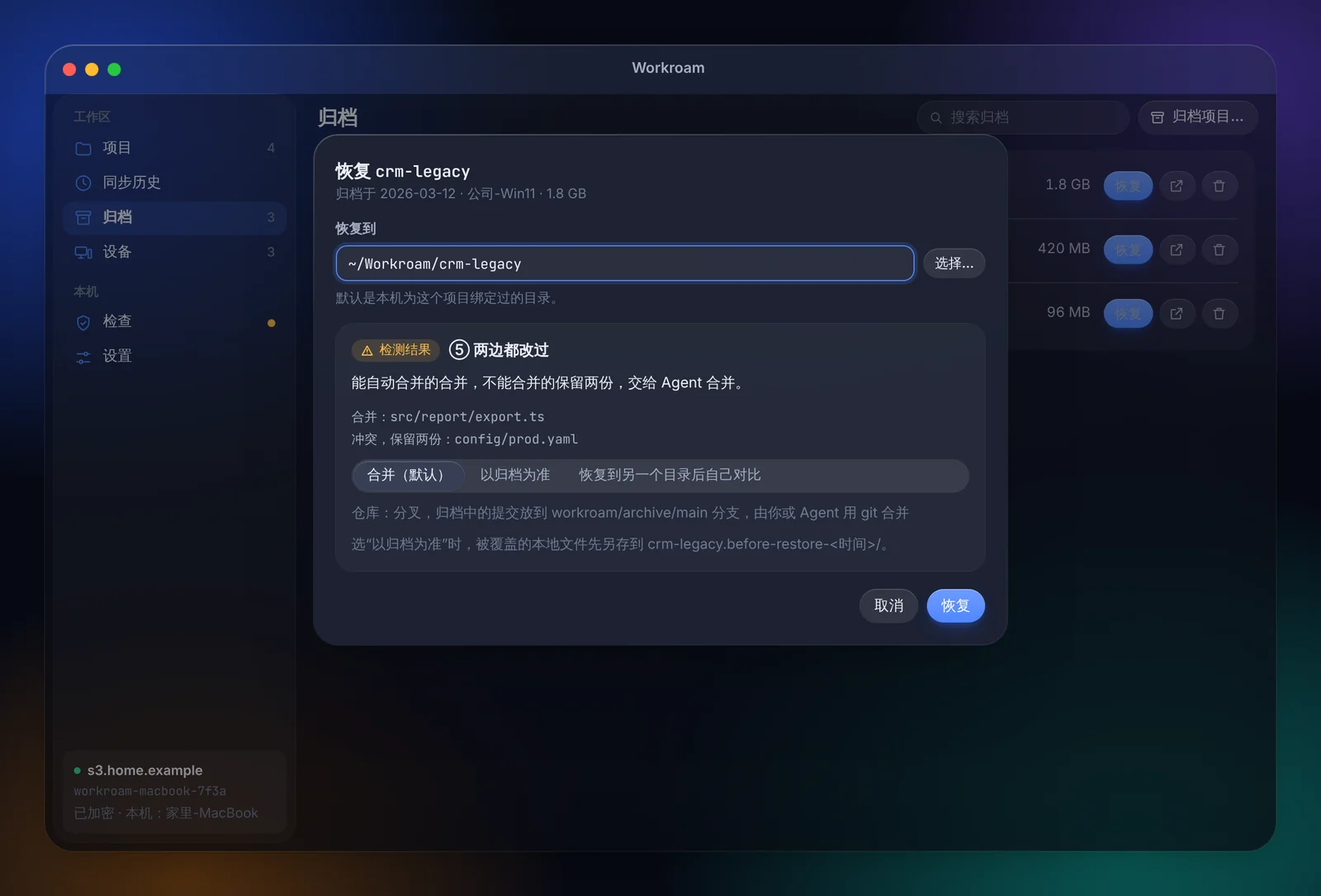
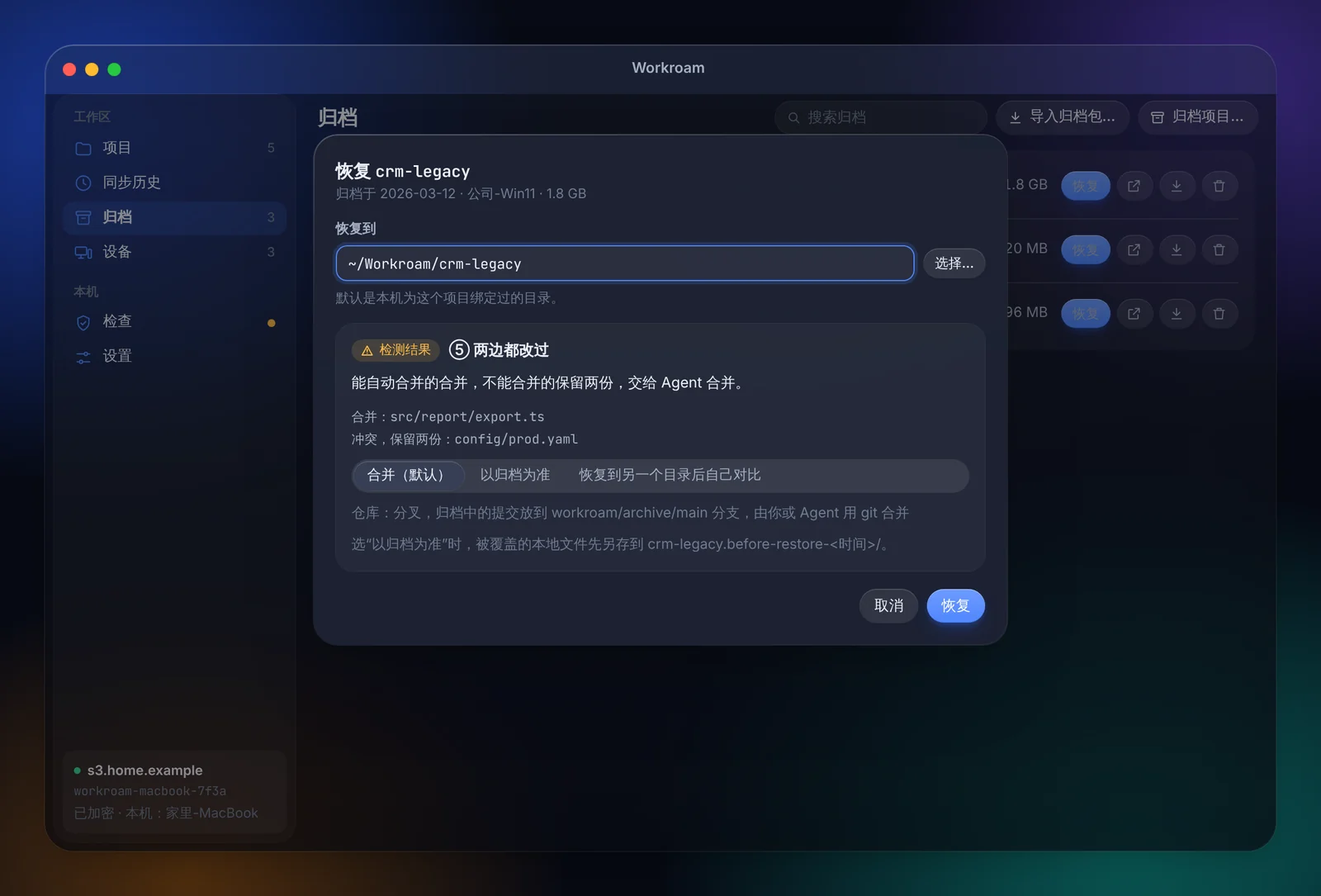
docs(prototype): add desktop entry points for CLI parity
- Approval card "查看详情" opens a details window with changed files,
  commits and 拒绝 / 稍后 / 同意
- Tray: pending approval count on the icon and menu; pause toggles to
  "恢复自动同步"
- Projects: pending project can change its local folder; per-project
  auto-sync tier and agent-confirm override
- Settings: new 本机 / 存储 / 加密 groups; 异地备份 shows last result,
  back up now and remove
- Doctor: "校验数据完整性…"; Archive: search, export / import archive pack
- Join wizard: rejoin as the original device after off-site restore
- Fix settings rows overflowing at phone width; refresh README screenshots

Claude-Session: https://claude.ai/code/session_01FP2eoDg5LfRuRmSZgRWu3e

diff --git a/docs/prototype/index.html b/docs/prototype/index.html
@@ -408,13 +408,13 @@ main{max-width:1100px;margin:0 auto}
 .devrow .nm{font-weight:600;display:flex;gap:8px;align-items:center}
 .devrow .sm{font-size:12px;color:var(--fg2);display:flex;flex-wrap:wrap;gap:4px 10px;margin-top:2px;align-items:center}
 
-.setgrp{display:grid;padding:0 4px;border-radius:var(--r-card);background:var(--pane);box-shadow:0 0 0 .5px var(--ring)}
+.setgrp{display:grid;grid-template-columns:minmax(0,1fr);padding:0 4px;border-radius:var(--r-card);background:var(--pane);box-shadow:0 0 0 .5px var(--ring)}
 .setrow{display:flex;align-items:center;gap:14px;min-height:48px;padding:8px 12px;flex-wrap:wrap;position:relative}
 .setrow + .setrow::before{content:"";position:absolute;top:0;left:12px;right:12px;height:.5px;background:var(--hair2)}
-.setrow .tx{flex:1;min-width:200px}
+.setrow .tx{flex:1;min-width:min(200px,100%)}
 .setrow .tx b{font-weight:550;font-size:13px;display:block}
 .setrow .tx span{font-size:12px;color:var(--fg2)}
-.settings{display:grid;gap:22px;max-width:680px}
+.settings{display:grid;grid-template-columns:minmax(0,1fr);gap:22px;max-width:680px}
 .settings h4{font-size:11px;font-weight:650;letter-spacing:.06em;color:var(--fg3);margin:0 0 6px 12px;text-transform:uppercase}
 input[type=range]{accent-color:var(--accent);width:150px}
 
@@ -501,6 +501,19 @@ input[type=range]{accent-color:var(--accent);width:150px}
 .rs-notes{display:grid;gap:10px;font-size:13px;color:var(--fg2)}
 .rs-notes b{color:var(--fg);font-weight:600}
 @media (max-width:760px){.rspec{grid-template-columns:1fr}.rs-win{grid-template-columns:1fr;height:auto}}
+
+.gwrap{position:fixed;z-index:70;border-radius:0;padding-top:calc(72px + env(safe-area-inset-top,0px))}
+.flrow{display:grid;grid-template-columns:18px minmax(0,1fr) auto;gap:10px;align-items:center;min-height:32px;padding:4px 10px;border-radius:var(--r-row);font-size:12px;position:relative}
+.flrow + .flrow::before{content:"";position:absolute;top:0;left:38px;right:10px;height:.5px;background:var(--hair2)}
+.flrow .k{font-family:var(--mono);font-size:11px;font-weight:700;text-align:center}
+.flrow .k.a{color:var(--ok)} .flrow .k.m{color:var(--warn)} .flrow .k.d{color:var(--bad)}
+.flrow .pth{font-family:var(--mono);overflow:hidden;text-overflow:ellipsis;white-space:nowrap}
+.flrow .sz{font-size:11.5px;color:var(--fg3);font-variant-numeric:tabular-nums}
+.scroll-list{max-height:220px;overflow:auto}
+.menu .mi .badge{margin-left:auto;min-width:18px;height:18px;border-radius:999px;background:var(--bad);color:var(--on-accent);font-size:11px;font-weight:650;display:grid;place-items:center;padding:0 5px;font-variant-numeric:tabular-nums}
+.menu .mi.alert{color:var(--fg);font-weight:550}
+.menubar .wr .cnt{position:absolute;top:-5px;right:-6px;min-width:15px;height:15px;border-radius:999px;background:var(--bad);color:var(--on-accent);font-size:9.5px;font-weight:700;display:grid;place-items:center;padding:0 4px}
+.menu .mi[data-card],.menu .mi#pauseItem{cursor:pointer}
 
 /* ---------- tray ---------- */
 .desk{--r:var(--r-win);min-height:540px;overflow:hidden;padding:0;display:flex;flex-direction:column}
@@ -998,6 +1011,10 @@ input[type=range]{accent-color:var(--accent);width:150px}
             <div><h2>输入加密密码</h2><p class="sub">就是第一台电脑初始化时设置的那个密码。</p></div>
             <div class="field" style="max-width:380px"><label class="lbl" for="jpw">加密密码</label><input class="input" id="jpw" type="password" value="handoff-at-18:40"></div>
             <div class="callout ok"><svg class="ic"><use href="#i-check"/></svg><span>解锁成功：工作区 <code>workroam-macbook-7f3a</code> · 4 个项目 · 2 台设备</span></div>
+            <div class="field"><span class="lbl">这个工作区曾从异地备份恢复 <span class="tag">v0.3</span></span>
+              <label class="choice"><input type="radio" name="asdev" checked><span><span class="t">作为原设备“公司-Win11”重新加入</span><span class="d">沿用原来的设备身份和项目目录，本地已有的文件只补齐差异。</span></span></label>
+              <label class="choice"><input type="radio" name="asdev"><span><span class="t">作为新设备加入</span><span class="d">原设备记录保留，可以稍后在“设备”里移除。</span></span></label>
+            </div>
             <a href="#setup" class="hint" style="color:var(--accent)" onclick="return false">忘记密码？使用恢复密钥</a>
           </div>
 
@@ -1042,7 +1059,7 @@ input[type=range]{accent-color:var(--accent);width:150px}
     <div class="win-body appbody">
       <aside class="side" id="side">
         <div class="grp">工作区</div>
-        <button class="it on" type="button" data-pane="projects"><svg class="ic"><use href="#i-folder"/></svg>项目<span class="cnt">4</span></button>
+        <button class="it on" type="button" data-pane="projects"><svg class="ic"><use href="#i-folder"/></svg>项目<span class="cnt">5</span></button>
         <button class="it" type="button" data-pane="history"><svg class="ic"><use href="#i-clock"/></svg>同步历史</button>
         <button class="it" type="button" data-pane="archive"><svg class="ic"><use href="#i-archive"/></svg>归档<span class="cnt">3</span></button>
         <button class="it" type="button" data-pane="devices"><svg class="ic"><use href="#i-devices"/></svg>设备<span class="cnt">3</span></button>
@@ -1073,7 +1090,7 @@ input[type=range]{accent-color:var(--accent);width:150px}
         </div>
 
         <!-- archive -->
-        <div class="toolbar" data-for="archive" hidden><h2>归档</h2><label class="search"><svg class="ic sm"><use href="#i-search"/></svg><input class="input" placeholder="搜索归档" aria-label="搜索归档"></label><button class="btn" type="button" data-open="sheetArchive"><svg class="ic sm"><use href="#i-archive"/></svg>归档项目…</button></div>
+        <div class="toolbar" data-for="archive" hidden><h2>归档</h2><label class="search"><svg class="ic sm"><use href="#i-search"/></svg><input class="input" placeholder="搜索归档" aria-label="搜索归档" id="archSearch"></label><button class="btn" type="button" data-open="sheetImport"><svg class="ic sm"><use href="#i-download"/></svg>导入归档包…</button><button class="btn" type="button" data-open="sheetArchive"><svg class="ic sm"><use href="#i-archive"/></svg>归档项目…</button></div>
         <div class="panel" data-for="archive" hidden>
           <div class="table" id="archList"></div>
           <p class="hint" style="margin-top:12px">归档永久保留，不受快照清理影响。各台设备上的本地文件 Workroam 一律不删除、不修改。</p>
@@ -1090,7 +1107,7 @@ input[type=range]{accent-color:var(--accent);width:150px}
         </div>
 
         <!-- doctor -->
-        <div class="toolbar" data-for="doctor" hidden><h2>检查</h2><span class="hint">上次运行：今天 09:12</span><button class="btn" type="button" id="docRerun"><svg class="ic sm"><use href="#i-refresh"/></svg>重新运行</button></div>
+        <div class="toolbar" data-for="doctor" hidden><h2>检查</h2><span class="hint">上次运行：今天 09:12</span><button class="btn" type="button" data-open="sheetVerify"><svg class="ic sm"><use href="#i-shield"/></svg>校验数据完整性…</button><button class="btn" type="button" id="docRerun"><svg class="ic sm"><use href="#i-refresh"/></svg>重新运行</button></div>
         <div class="panel" data-for="doctor" hidden>
           <div style="display:grid;gap:18px;max-width:760px">
             <div class="sect"><h4>本机</h4><div class="checks" id="localChecks"></div></div>
@@ -1102,6 +1119,12 @@ input[type=range]{accent-color:var(--accent);width:150px}
         <div class="toolbar" data-for="settings" hidden><h2>设置</h2></div>
         <div class="panel" data-for="settings" hidden>
           <div class="settings">
+            <div><h4>本机</h4><div class="setgrp">
+              <div class="setrow"><div class="tx"><b>设备名</b><span>在设备列表、租约和环境块里显示</span></div><input class="input" style="width:220px" value="家里-MacBook" aria-label="设备名"></div>
+              <div class="setrow"><div class="tx"><b>默认项目位置</b><span>新项目默认放在这里，每个项目仍可单独选择目录</span></div><div class="inrow"><span class="lockdir">~/Workroam</span><button class="btn sm" type="button">更改…</button></div></div>
+              <div class="setrow"><div class="tx"><b>可达主机</b><span>从本机 git 远端自动探测，决定哪些仓库在本机能推送</span></div><div class="inrow" style="flex-wrap:wrap"><span class="pill ok"><span class="dot"></span>github.com</span><span class="pill"><span class="dot"></span>git.corp.internal 不可达</span><button class="btn sm" type="button"><svg class="ic sm"><use href="#i-refresh"/></svg>重新探测</button></div></div>
+              <div class="setrow"><div class="tx"><b>开机自启</b><span>后台服务随登录启动</span></div><input class="sw" type="checkbox" checked aria-label="开机自启"></div>
+            </div></div>
             <div><h4>自动同步</h4><div class="setgrp">
               <div class="setrow"><div class="tx"><b>全局档位</b><span>项目可单独覆盖</span></div><div class="seg" data-group="auto2"><button type="button">关闭</button><button type="button" class="on">询问</button><button type="button">全自动</button></div></div>
               <div class="setrow"><div class="tx"><b>空闲后推送</b><span>本地有改动并空闲 <b id="idleV" style="display:inline">15</b> 分钟</span></div><input type="range" min="5" max="60" step="5" value="15" id="idle" aria-label="空闲分钟数"></div>
@@ -1118,9 +1141,21 @@ input[type=range]{accent-color:var(--accent);width:150px}
               <div class="setrow"><div class="tx"><b>Antigravity 1.3</b><span>适配器 1.0</span></div><span class="pill ok">已匹配</span></div>
               <div class="setrow"><div class="tx"><b>Agent 发起的同步需要确认</b><span>可以在项目里单独放宽</span></div><input class="sw" type="checkbox" checked aria-label="Agent 发起的同步需要确认"></div>
             </div></div>
+            <div><h4>存储</h4><div class="setgrp">
+              <div class="setrow"><div class="tx"><b>s3.home.example</b><span>桶 workroam-macbook-7f3a · 已加密</span></div><span class="pill ok"><span class="dot"></span>已连接</span></div>
+              <div class="setrow"><div class="tx"><b>访问密钥</b><span>WRK…9XHV · 专用读写密钥 · 保存在钥匙串</span></div><button class="btn sm" type="button" data-open="sheetKey">更新访问密钥…</button></div>
+              <div class="setrow"><div class="tx"><b>快照保留策略</b><span>最近 30 天全部保留，之前每周保留一个；归档永不清理</span></div><button class="btn sm" type="button">修改…</button></div>
+              <div class="setrow"><div class="tx"><b>清理</b><span>上次清理 10-27 03:00 · 释放 312 MB</span></div><button class="btn sm" type="button">立即清理</button></div>
+            </div></div>
+            <div><h4>加密</h4><div class="setgrp">
+              <div class="setrow"><div class="tx"><b>加密密码</b><span>修改后不需要重新上传数据；其他设备下次解锁时使用新密码</span></div><button class="btn sm" type="button" data-open="sheetPw">修改加密密码…</button></div>
+              <div class="setrow"><div class="tx"><b>忘记加密密码</b><span>用初始化时保存的恢复密钥解锁，并设置新密码</span></div><button class="btn sm" type="button" data-open="sheetRk">使用恢复密钥重设…</button></div>
+            </div></div>
             <div><h4>异地备份 <span class="tag">v0.3 · 可选</span></h4><div class="setgrp">
-              <div class="setrow"><div class="tx"><b>镜像整个存储</b><span>只在存储本身丢失时需要。云对象存储通常不必开启。</span></div><input class="sw" type="checkbox" aria-label="镜像整个存储"></div>
-              <div class="setrow"><div class="tx"><b>镜像目标</b><span>另一个 S3 桶或本地目录（NAS、移动硬盘）</span></div><button class="btn sm" type="button">选择…</button></div>
+              <div class="setrow"><div class="tx"><b>镜像整个存储</b><span>只在存储本身丢失时需要。云对象存储通常不必开启。</span></div><input class="sw" type="checkbox" checked aria-label="镜像整个存储"></div>
+              <div class="setrow"><div class="tx"><b>镜像目标</b><span class="mono">/Volumes/NAS/workroam-mirror</span></div><button class="btn sm" type="button">更改…</button></div>
+              <div class="setrow"><div class="tx"><b>最近一次</b><span>今天 03:12 · 增量 48 MB · 用时 2 分 06 秒 · 下次：明天空闲时</span></div><span class="pill ok"><span class="dot"></span>成功</span></div>
+              <div class="setrow"><div class="tx"><b>操作</b><span>主存储中删除的内容在镜像中延迟 30 天才删除</span></div><div class="acts-row"><button class="btn sm" type="button"><svg class="ic sm"><use href="#i-refresh"/></svg>立即备份</button><button class="btn sm danger" type="button" data-open="sheetRmBak">移除异地备份…</button></div></div>
             </div></div>
           </div>
         </div>
@@ -1139,6 +1174,69 @@ input[type=range]{accent-color:var(--accent);width:150px}
           <div class="flist"><span>CLAUDE.md → AGENTS.md（原文件改为一行 @AGENTS.md）</span><span>.mcp.json → .workroam/mcp.toml</span><span>.claude/skills/ → .agents/skills/</span></div></div>
         <div class="callout warn"><svg class="ic"><use href="#i-warn"/></svg><span><b>跨平台检查发现 1 个问题</b>：<code>docs/Readme.md</code> 与 <code>docs/README.md</code> 只有大小写不同，Windows 上会冲突。改名后才能推送。</span></div>
         <div class="acts"><button class="btn" type="button" data-close>取消</button><button class="btn primary" type="button" data-close>接入并推送</button></div>
+      </div></div>
+
+      <div class="sheet-wrap" id="sheetMove" hidden><div class="sheet glass" role="dialog" aria-label="更换本机目录">
+        <div><h3>更换 <span class="mono">docs-site</span> 的本机目录</h3><p class="hint">只有目录为空、还没同步过时可以更换。</p></div>
+        <div class="field"><label class="lbl" for="mvDir">新目录</label><div class="inrow"><input class="input mono" id="mvDir" value="~/code/docs-site"><button class="btn sm" type="button">选择…</button></div>
+          <div class="chips"><span class="pill ok"><svg class="ic sm"><use href="#i-check"/></svg>可写</span><span class="pill ok"><svg class="ic sm"><use href="#i-check"/></svg>不与其他项目嵌套</span><span class="pill ok"><svg class="ic sm"><use href="#i-check"/></svg>目录为空</span></div></div>
+        <p class="hint">命令行：<code>workroam project move docs-site --path ~/code/docs-site</code></p>
+        <div class="acts"><button class="btn" type="button" data-close>取消</button><button class="btn primary" type="button" data-close>更换</button></div>
+      </div></div>
+
+      <div class="sheet-wrap" id="sheetKey" hidden><div class="sheet glass" role="dialog" aria-label="更新访问密钥">
+        <div><h3>更新访问密钥</h3><p class="hint">密钥被轮换或失效时使用。新密钥只保存在钥匙串。</p></div>
+        <div class="field"><label class="lbl" for="nak">Access Key ID</label><input class="input mono" id="nak" placeholder="新的 Access Key ID" autocomplete="off"></div>
+        <div class="field"><label class="lbl" for="nsk">Secret Access Key</label><input class="input mono" id="nsk" type="password" placeholder="新的 Secret" autocomplete="off"></div>
+        <p class="hint">保存前会用新密钥重新运行读、写、删除与条件写检查。</p>
+        <div class="acts"><button class="btn" type="button" data-close>取消</button><button class="btn primary" type="button" data-close>检查并保存</button></div>
+      </div></div>
+
+      <div class="sheet-wrap" id="sheetPw" hidden><div class="sheet glass" role="dialog" aria-label="修改加密密码">
+        <div><h3>修改加密密码</h3><p class="hint">数据不需要重新加密上传，只更换解锁工作区的密钥封装。</p></div>
+        <div class="field"><label class="lbl" for="opw">当前密码</label><input class="input" id="opw" type="password" value="handoff-at-18:40"></div>
+        <div class="grid2"><div class="field"><label class="lbl" for="npw">新密码</label><input class="input" id="npw" type="password"></div><div class="field"><label class="lbl" for="npw2">再输入一次</label><input class="input" id="npw2" type="password"></div></div>
+        <div class="callout info"><svg class="ic"><use href="#i-key"/></svg><span>恢复密钥保持不变。已有的配对码会失效，添加设备时请重新生成。</span></div>
+        <div class="acts"><button class="btn" type="button" data-close>取消</button><button class="btn primary" type="button" data-close>修改密码</button></div>
+      </div></div>
+
+      <div class="sheet-wrap" id="sheetRk" hidden><div class="sheet glass" role="dialog" aria-label="使用恢复密钥重设">
+        <div><h3>使用恢复密钥重设密码</h3><p class="hint">输入初始化时保存的 8 组恢复密钥。</p></div>
+        <div class="field"><label class="lbl" for="rkin">恢复密钥</label><input class="input mono" id="rkin" placeholder="XXXX-XXXX-XXXX-XXXX-XXXX-XXXX-XXXX-XXXX" autocomplete="off"></div>
+        <div class="grid2"><div class="field"><label class="lbl" for="rpw">新密码</label><input class="input" id="rpw" type="password"></div><div class="field"><label class="lbl" for="rpw2">再输入一次</label><input class="input" id="rpw2" type="password"></div></div>
+        <div class="acts"><button class="btn" type="button" data-close>取消</button><button class="btn primary" type="button" data-close>解锁并设置新密码</button></div>
+      </div></div>
+
+      <div class="sheet-wrap" id="sheetRmBak" hidden><div class="sheet glass" role="dialog" aria-label="移除异地备份">
+        <h3>移除异地备份？</h3>
+        <p>停止向 <span class="mono">/Volumes/NAS/workroam-mirror</span> 镜像。镜像里已有的数据保留在原处，是否删除由你决定。</p>
+        <div class="acts"><button class="btn" type="button" data-close>取消</button><button class="btn danger solid" type="button" data-close>移除</button></div>
+      </div></div>
+
+      <div class="sheet-wrap" id="sheetVerify" hidden><div class="sheet glass" role="dialog" aria-label="校验数据完整性">
+        <div><h3>校验数据完整性</h3><p class="hint">检查快照、数据块和索引是否完整、可解密。</p></div>
+        <div class="field"><span class="lbl">校验对象</span><div class="seg" data-group="vtarget"><button type="button" class="on">主存储</button><button type="button">异地备份镜像</button></div></div>
+        <div class="setgrp">
+          <div class="setrow"><div class="tx"><b>结构检查</b><span>索引、快照与数据块引用一致 · 约 1 分钟</span></div><input class="sw" type="checkbox" checked disabled aria-label="结构检查"></div>
+          <div class="setrow"><div class="tx"><b>抽样读取数据</b><span>下载并解密 <b id="vpV" style="display:inline">5</b>% 的数据块 · 约 4 分钟</span></div><input type="range" min="1" max="100" value="5" id="vp" aria-label="抽样比例"></div>
+        </div>
+        <p class="hint">命令行：<code>workroam verify</code>，异地备份用 <code>--backup</code>。</p>
+        <div class="acts"><button class="btn" type="button" data-close>取消</button><button class="btn primary" type="button" data-close>开始校验</button></div>
+      </div></div>
+
+      <div class="sheet-wrap" id="sheetImport" hidden><div class="sheet glass" role="dialog" aria-label="导入归档包">
+        <div><h3>导入归档包 <span class="tag">v0.3</span></h3><p class="hint">把导出的单文件加密归档包导入到这个工作区。</p></div>
+        <div class="field"><label class="lbl" for="impf">归档包</label><div class="inrow"><input class="input mono" id="impf" value="/Volumes/T7/crm-legacy-2026-03-12.wrarchive"><button class="btn sm" type="button">选择…</button></div></div>
+        <div class="field"><label class="lbl" for="imppw">归档包密码</label><input class="input" id="imppw" type="password" placeholder="导出时使用的加密密码"></div>
+        <div class="callout ok"><svg class="ic"><use href="#i-check"/></svg><span>已识别：crm-legacy · 归档于 2026-03-12 · 1.8 GB · 2 个代码仓库</span></div>
+        <div class="acts"><button class="btn" type="button" data-close>取消</button><button class="btn primary" type="button" data-close>导入到归档列表</button></div>
+      </div></div>
+
+      <div class="sheet-wrap" id="sheetExportPack" hidden><div class="sheet glass" role="dialog" aria-label="导出归档包">
+        <div><h3>导出归档包 <span class="tag">v0.3</span></h3><p class="hint">得到一个加密的单文件，可以放进移动硬盘离线保存，以后在任何工作区导入。</p></div>
+        <div class="field"><label class="lbl" for="expf">保存到</label><div class="inrow"><input class="input mono" id="expf" value="/Volumes/T7/crm-legacy-2026-03-12.wrarchive"><button class="btn sm" type="button">选择…</button></div></div>
+        <p class="hint">归档包用当前加密密码保护 · 约 1.8 GB</p>
+        <div class="acts"><button class="btn" type="button" data-close>取消</button><button class="btn primary" type="button" data-close>导出</button></div>
       </div></div>
 
       <div class="sheet-wrap" id="sheetRemove" hidden><div class="sheet glass" role="dialog" aria-label="移除项目">
@@ -1232,7 +1330,7 @@ input[type=range]{accent-color:var(--accent);width:150px}
   </div>
   <div class="desk glass">
     <div class="menubar"><b style="font-weight:700">访达</b><span>文件</span><span>编辑</span><span>显示</span>
-      <div class="r"><span class="wr" title="Workroam"><svg><use href="#glyph"/></svg></span><span>周四 18:40</span></div>
+      <div class="r"><span class="wr" title="Workroam · 1 个待确认的授权"><svg><use href="#glyph"/></svg><span class="cnt">1</span></span><span>周四 18:40</span></div>
     </div>
     <div class="desk-body">
       <div class="legend glass">
@@ -1242,7 +1340,8 @@ input[type=range]{accent-color:var(--accent);width:150px}
         <div class="row"><span class="tray-g" style="color:var(--fg)"><svg><use href="#glyph"/></svg><i class="badge-dot" style="right:6px;bottom:6px"></i></span><div><b>警示</b><br><span>同步失败、存储不可达、项目目录不存在、异地备份超过 3 天未成功</span></div></div>
       </div>
       <div class="menu glass" role="menu" aria-label="Workroam 菜单">
-        <div class="head"><b>家里-MacBook</b><span class="hint">s3.home.example · 上次同步 2 分钟前</span></div>
+        <div class="head"><b>家里-MacBook</b><span class="hint" id="trayHint">s3.home.example · 上次同步 2 分钟前</span></div>
+        <div class="mi alert" role="menuitem" data-card="auth"><svg class="ic sm"><use href="#i-bell"/></svg>待确认的授权<span class="badge">1</span></div>
         <div class="sep"></div>
         <div class="pj"><span class="dot" style="color:var(--amber)"></span><div><div class="nm">payment-gateway</div><div class="sub2">本机持有 · 12 个改动待推送</div></div><button class="btn sm" type="button" data-card="auth">推送</button></div>
         <div class="pj"><span class="dot" style="color:var(--accent)"></span><div><div class="nm">intranet-portal</div><div class="sub2">公司-Win11 持有 · 有新进度</div></div><button class="btn sm" type="button" data-card="lease">拉取</button></div>
@@ -1250,7 +1349,7 @@ input[type=range]{accent-color:var(--accent);width:150px}
         <div class="sep"></div>
         <div class="mi" role="menuitem"><svg class="ic sm"><use href="#i-up"/></svg>推送全部并释放<span class="k">⌥⌘P</span></div>
         <div class="mi" role="menuitem"><svg class="ic sm"><use href="#i-down"/></svg>拉取最新<span class="k">⌥⌘L</span></div>
-        <div class="mi" role="menuitem"><svg class="ic sm"><use href="#i-pause"/></svg>暂停自动同步 1 小时</div>
+        <div class="mi" role="menuitem" id="pauseItem" title="原型：点击切换暂停状态"><svg class="ic sm"><use href="#i-pause"/></svg><span>暂停自动同步 1 小时</span></div>
         <div class="sep"></div>
         <div class="mi" role="menuitem"><svg class="ic sm"><use href="#i-folder"/></svg>打开 Workroam…</div>
         <div class="mi" role="menuitem"><svg class="ic sm"><use href="#i-shield"/></svg>检查…<span class="sub2" style="margin-left:auto">1 项警告</span></div>
@@ -1265,6 +1364,33 @@ input[type=range]{accent-color:var(--accent);width:150px}
 </main>
 
 <div class="corner" id="corner" aria-live="polite"></div>
+
+<div class="sheet-wrap gwrap" id="approvalWin" hidden><div class="sheet glass" role="dialog" aria-label="授权详情" style="width:min(600px,100%)">
+  <div style="display:flex;gap:10px;align-items:center"><svg width="22" height="22" aria-hidden="true"><use href="#logo"/></svg><div><h3>推送 <span class="mono">payment-gateway</span>？</h3><p class="hint">授权详情 · 等待你确认（10 分钟后按“稍后”处理）</p></div></div>
+  <dl class="kv"><dt>发起方</dt><dd>Claude Code（Agent）· 家里-MacBook</dd><dt>目标</dt><dd>s3.home.example · workroam-macbook-7f3a</dd><dt>变更</dt><dd>12 个文件 · 1.4 MB · 3 个提交 · 预计约 8 秒</dd><dt>完成后</dt><dd>释放租约，公司-Win11 可以拉取</dd></dl>
+  <div class="sect"><h4>文件（12）</h4><div class="group scroll-list">
+    <div class="flrow"><span class="k a">A</span><span class="pth">src/risk/retry_worker.rs</span><span class="sz">+6.2 KB</span></div>
+    <div class="flrow"><span class="k m">M</span><span class="pth">src/risk/callback.rs</span><span class="sz">+1.1 KB</span></div>
+    <div class="flrow"><span class="k m">M</span><span class="pth">src/risk/mod.rs</span><span class="sz">+120 B</span></div>
+    <div class="flrow"><span class="k a">A</span><span class="pth">migrations/20261030_retry_queue.sql</span><span class="sz">+840 B</span></div>
+    <div class="flrow"><span class="k m">M</span><span class="pth">tests/risk_callback_test.rs</span><span class="sz">+2.4 KB</span></div>
+    <div class="flrow"><span class="k m">M</span><span class="pth">Cargo.lock</span><span class="sz">+1.3 MB</span></div>
+    <div class="flrow"><span class="k d">D</span><span class="pth">scripts/old_verify.sh</span><span class="sz">−1.9 KB</span></div>
+    <div class="flrow"><span class="k m">M</span><span class="pth">AGENTS.md</span><span class="sz">+210 B</span></div>
+    <div class="flrow"><span class="k a">A</span><span class="pth">docs/retry-queue.md</span><span class="sz">+3.0 KB</span></div>
+    <div class="flrow"><span class="k m">M</span><span class="pth">.workroam/mcp.toml</span><span class="sz">+64 B</span></div>
+    <div class="flrow"><span class="k m">M</span><span class="pth">.agents/skills/db-migrate/SKILL.md</span><span class="sz">+512 B</span></div>
+    <div class="flrow"><span class="k a">A</span><span class="pth">src/risk/backoff.rs</span><span class="sz">+1.7 KB</span></div>
+  </div></div>
+  <div class="sect"><h4>提交（3 · payment-gateway main）</h4><div class="group">
+    <div class="flrow"><span class="k" style="color:var(--fg3)">•</span><span class="pth">a91c2e4 重试队列骨架与退避策略</span><span class="sz">今天 18:31</span></div>
+    <div class="flrow"><span class="k" style="color:var(--fg3)">•</span><span class="pth">5d07b19 retry_queue 表迁移</span><span class="sz">今天 17:58</span></div>
+    <div class="flrow"><span class="k" style="color:var(--fg3)">•</span><span class="pth">c3e88a0 移除旧的同步校验脚本</span><span class="sz">今天 17:12</span></div>
+  </div></div>
+  <div class="callout warn"><svg class="ic"><use href="#i-warn"/></svg><span>HANDOFF.md 自上次推送以来没有更新。可以先让 Agent 补一段进度，再同意推送。</span></div>
+  <label style="display:flex;gap:8px;align-items:center;font-size:12.5px;color:var(--fg2)"><input class="cb" type="checkbox">本项目 1 小时内不再询问</label>
+  <div class="acts"><button class="btn danger" type="button" data-close data-reject>拒绝</button><span style="flex:1"></span><button class="btn" type="button" data-close>稍后</button><button class="btn primary" type="button" data-close data-go="progress">同意</button></div>
+</div></div>
 
 <script>
 (function(){
@@ -1467,6 +1593,7 @@ const PROJ=[
   repos:[['intranet-portal','bundle','snapshot','git.corp.internal',false]],agents:['Claude Code'],
   ho:{by:'Claude Code · 公司-Win11 · 昨天 18:40',goal:'权限中心接入组织架构同步',done:['组织树接口联调'],doing:['角色继承规则'],next:['在家里补前端页面','不要动 deploy/ 目录']}},
  {id:'blog-astro',desc:'个人博客',st:'missing',pill:['bad','目录不存在'],meta:['#31 · 5 天前','已暂停同步'],dir:'~/Sites/blog-astro',repos:[['blog-astro','remote','full','github.com',true]],agents:['Codex']},
+ {id:'docs-site',desc:'产品文档站',st:'pending',pill:['acc','待拉取'],meta:['#14 · 昨天 21:05','目录已选，尚未拉取'],dir:'~/Workroam/docs-site',repos:[['docs-site','remote','full','github.com',true]],agents:['Claude Code']},
  {id:'ml-notebooks',desc:'实验笔记本',st:'notadded',pill:['','未添加到本机'],meta:['#9 · 3 周前','在 公司-Win11 上'],dir:null,repos:[],agents:[]},
 ];
 let sel='payment-gateway';
@@ -1484,9 +1611,14 @@ function renderDetail(){ const p=PROJ.find(x=>x.id===sel); let h='';
   if(p.st==='notadded') h+=`<div class="callout info">${icon('i-folder','ic')}<span>这个项目还没有添加到本机。选择本机目录后会拉取最新快照。</span></div>
     <div class="field"><label class="lbl" for="ndir">本机目录</label><div class="inrow"><input class="input mono" id="ndir" value="~/Workroam/ml-notebooks"><button class="btn sm" type="button">选择…</button></div><span class="hint">默认“默认项目位置/项目名”。目录为空、还没拉取前可以随时更换。</span></div>
     <div class="acts-row"><button class="btn primary" type="button">${icon('i-down')}添加并拉取</button></div>`;
-  if(p.dir&&p.st!=='notadded') h+=`<dl class="kv"><dt>本机目录</dt><dd><span class="lockdir">${p.st==='missing'?icon('i-warn'):icon('i-lock')}${p.dir}</span>${p.st!=='missing'?'<span class="hint">已同步，目录已锁定。要换位置，先在本机移除项目再重新添加。</span>':''}</dd>
+  if(p.st==='pending') h+=`<div class="callout info">${icon('i-folder','ic')}<span>已为这个项目选好本机目录，还没有拉取。目录是空的，拉取前可以随时更换。</span></div><div class="acts-row"><button class="btn primary" type="button" data-card="pulldone">${icon('i-down')}拉取</button><button class="btn ghost" type="button" data-open="sheetRemove" data-name="${p.id}">在本机移除…</button></div>`;
+  if(p.dir&&p.st!=='notadded') h+=`<dl class="kv"><dt>本机目录</dt><dd><span class="lockdir">${p.st==='missing'?icon('i-warn'):p.st==='pending'?icon('i-folder'):icon('i-lock')}${p.dir}</span>${p.st==='pending'?'<button class="btn sm" type="button" data-open="sheetMove">更换…</button><span class="hint">目录为空、尚未同步，可以更换</span>':p.st!=='missing'?'<span class="hint">已同步，目录已锁定。要换位置，先在本机移除项目再重新添加。</span>':''}</dd>
     <dt>最新快照</dt><dd>${p.meta[0]}</dd><dt>Agent</dt><dd>${p.agents.map(a=>`<span class="pill">${a}</span>`).join('')}</dd></dl>`;
   if(p.repos.length) h+=`<div class="sect"><h4>代码仓库</h4><div class="group">${p.repos.map(r=>`<div class="repo">${icon('i-git')}<span class="nm">${r[0]}</span><span class="pill acc">${r[1]}</span><span class="pill">${r[2]}</span><span class="end">${r[3]} · ${r[4]?'本机可推送':'本机只做本地提交'}</span></div>`).join('')}</div></div>`;
+  if(['held','remote','pending'].includes(p.st)) h+=`<div class="sect"><h4>项目设置</h4><div class="setgrp">
+    <div class="setrow"><div class="tx"><b>自动同步</b><span>覆盖全局档位（当前全局：询问）</span></div><div class="seg" data-group="pauto"><button type="button" class="on">跟随全局</button><button type="button">关闭</button><button type="button">询问</button><button type="button">全自动</button></div></div>
+    <div class="setrow"><div class="tx"><b>Agent 发起的同步需要确认</b><span>关闭后，Agent 在这个项目里发起的推送和拉取直接执行</span></div><input class="sw" type="checkbox" checked aria-label="Agent 发起的同步需要确认"></div>
+  </div></div>`;
   if(p.ho) h+=`<div class="sect"><h4>交接文档 · .handoff/HANDOFF.md</h4><div class="handoff"><span class="h">更新：${p.ho.by}</span><div><b>当前目标</b>　${p.ho.goal}</div><div><b>已完成</b><ul>${p.ho.done.map(x=>`<li>${x}</li>`).join('')}</ul></div><div><b>进行中</b><ul>${p.ho.doing.map(x=>`<li>${x}</li>`).join('')}</ul></div><div><b>下一步</b><ul>${p.ho.next.map(x=>`<li>${x}</li>`).join('')}</ul></div></div></div>`;
   $('#pdetail').innerHTML=h;
 }
@@ -1540,7 +1672,8 @@ renderSnaps();
 // archive
 const ARCH=[['crm-legacy','2026-03-12 · 公司-Win11','1.8 GB','上线完成，运维期可能有小改动'],['hackathon-2025','2025-11-30 · 家里-MacBook','420 MB','比赛结束'],['thesis-latex','2025-06-18 · 家里-MacBook','96 MB','永久留存']];
 $('#archList').innerHTML=ARCH.map(a=>`<div class="trow"><div style="min-width:0"><div class="nm">${a[0]}</div><div class="sm">${a[3]}</div></div><div class="sm hide-n">${a[1]}</div><div class="num hide-n">${a[2]}</div>
-  <div class="acts-row" style="justify-content:flex-end"><button class="btn sm primary" type="button" data-open="sheetRestore" data-name="${a[0]}">恢复</button><button class="btn sm" type="button" title="导出到其他目录" aria-label="导出到其他目录">${icon('i-export')}</button><button class="btn sm danger" type="button" data-open="sheetDelArch" data-name="${a[0]}" aria-label="删除归档">${icon('i-trash')}</button></div></div>`).join('');
+  <div class="acts-row" style="justify-content:flex-end"><button class="btn sm primary" type="button" data-open="sheetRestore" data-name="${a[0]}">恢复</button><button class="btn sm" type="button" title="导出到其他目录" aria-label="导出到其他目录">${icon('i-export')}</button><button class="btn sm" type="button" title="导出归档包…" aria-label="导出归档包" data-open="sheetExportPack">${icon('i-download')}</button><button class="btn sm danger" type="button" data-open="sheetDelArch" data-name="${a[0]}" aria-label="删除归档">${icon('i-trash')}</button></div></div>`).join('');
+$('#archSearch').addEventListener('input',e=>{const q=e.target.value.trim(); $$('#archList .trow').forEach(r=>r.hidden=!r.querySelector('.nm').textContent.includes(q));});
 const SCEN=[
  ['ok','① 目录不存在或是空目录','直接下载归档，从完整包克隆代码仓库，生成本机配置，继续开发。',[],null,'仓库：从归档包克隆 crm-legacy（main，最近 50 个提交）'],
  ['ok','② 本地文件与归档完全一致','不下载任何文件，只恢复同步并重新生成本机配置。',[],null,'仓库：分支与归档一致，不动'],
@@ -1567,6 +1700,7 @@ function runDoctor(force){ if(docRan&&!force)return; docRan=true; runChecks($('#
 function runChecks2(){ const t=$('#docChecks'); t.innerHTML=CHECKS.map(c=>chkRow(c)).join(''); }
 $('#docRerun').addEventListener('click',()=>runDoctor(true));
 $('#idle').addEventListener('input',e=>$('#idleV').textContent=e.target.value);
+$('#vp').addEventListener('input',e=>$('#vpV').textContent=e.target.value);
 
 /* ---------- cards ---------- */
 const LG='<svg class="lg" aria-hidden="true"><use href="#logo"/></svg>';
@@ -1576,7 +1710,7 @@ const CARDS={
    <dl class="meta"><dt>发起方</dt><dd>Claude Code（Agent）</dd><dt>变更</dt><dd>12 个文件 · 1.4 MB · 3 个提交</dd><dt>目标</dt><dd>s3.home.example</dd><dt>预计</dt><dd>约 8 秒，完成后释放租约</dd></dl>
    <div class="callout warn">${icon('i-warn')}<span>HANDOFF.md 自上次推送以来没有更新。</span></div>
    <label style="display:flex;gap:8px;align-items:center;font-size:12px;color:var(--fg2)"><input class="cb" type="checkbox">本项目 1 小时内不再询问</label>
-   <div class="acts"><button class="btn sm ghost" type="button">查看详情</button><button class="btn sm" type="button" data-dismiss>稍后</button><button class="btn sm primary" type="button" data-go="progress">同意</button></div>`},
+   <div class="acts"><button class="btn sm ghost" type="button" data-detail>查看详情</button><button class="btn sm" type="button" data-dismiss>稍后</button><button class="btn sm primary" type="button" data-go="progress">同意</button></div>`},
  progress:{cap:'进度卡片 · UX-02',html:()=>`<div class="hd">${LG}Workroam<span class="tm">现在</span></div>
    <h4>正在推送 payment-gateway</h4>
    <div style="display:grid;gap:6px"><div style="display:flex;justify-content:space-between;font-size:12.5px"><span data-stage>上传数据块 3 / 5</span><span class="mono" data-pct>62%</span></div><div class="bar"><i data-bar style="width:62%"></i></div>
@@ -1623,7 +1757,15 @@ document.addEventListener('click',e=>{
   const d=e.target.closest('[data-dismiss]'); if(d){ const c=d.closest('.ncard'); if(c&&c.dataset.live){clearInterval(progTimer);c.remove();} }
 });
 $('#playHandoff').addEventListener('click',()=>showCard('auth'));
+document.addEventListener('click',e=>{
+  if(e.target.closest('[data-detail]')){ $('#approvalWin').hidden=false; return; }
+  if(e.target.closest('[data-reject]')){ clearInterval(progTimer); $('#corner').innerHTML=''; }
+});
 let cornerBottom=false;
+let paused=false;
+$('#pauseItem').addEventListener('click',()=>{ paused=!paused;
+  $('#pauseItem').innerHTML=paused?`${icon('i-refresh')}<span>恢复自动同步</span><span class="sub2" style="margin-left:auto">19:40 自动恢复</span>`:`${icon('i-pause')}<span>暂停自动同步 1 小时</span>`;
+  $('#trayHint').textContent=paused?'自动同步已暂停 · 19:40 自动恢复':'s3.home.example · 上次同步 2 分钟前'; });
 segHandlers.corner=i=>{cornerBottom=i===1;$('#corner').classList.toggle('bottom',cornerBottom);};
 
 route();

diff --git a/docs/prototype/README.md b/docs/prototype/README.md
@@ -13,10 +13,10 @@
 | 场景 | 地址 | 覆盖的需求 |
 | --- | --- | --- |
 | 品牌 | `index.html#brand` | 新 Logo、应用图标尺寸、托盘模板图标三态、色彩、材质、字体层级、基础组件 |
-| 初始化向导 | `index.html#setup` | PRD 7.1、ONB-01 – ONB-09：新建工作区 8 步（存储预设、访问密钥、密钥权限、存储桶、16 项能力检查、加密密码与恢复密钥确认、本机设置、配对码与二维码）；加入已有工作区（配对码、加密密码、检查、本机设置、按项目选择本机目录） |
-| 主窗口 | `index.html#app` | 项目列表与详情（租约、目录锁定、目录不存在、未添加到本机、代码仓库同步模式、HANDOFF.md）、接入项目、在本机移除项目、同步历史与恢复、归档列表与 7 种恢复场景、删除归档、设备与配对、检查（`doctor`）、设置 |
-| 卡片 | `index.html#cards` | UX-01 – UX-05、LEASE-03：授权、进度、完成、失败（常驻）、到达、租约冲突；可切换 macOS 右上 / Windows 右下，并演示一次完整推送 |
-| 托盘菜单 | `index.html#tray` | 托盘图标三态与菜单 |
+| 初始化向导 | `index.html#setup` | PRD 7.1、ONB-01 – ONB-09：新建工作区 8 步（存储预设、访问密钥、密钥权限、存储桶、16 项能力检查、加密密码与恢复密钥确认、本机设置、配对码与二维码）；加入已有工作区（配对码、加密密码、从异地备份恢复后作为原设备加入、检查、本机设置、按项目选择本机目录） |
+| 主窗口 | `index.html#app` | 项目列表与详情（租约、目录锁定、目录不存在、待拉取时更换目录、未添加到本机、代码仓库同步模式、项目级自动同步与 Agent 确认覆盖、HANDOFF.md）、接入项目、在本机移除项目、同步历史与恢复、归档列表（搜索、导出 / 导入归档包）与 7 种恢复场景、删除归档、设备与配对、检查（`doctor`，含校验数据完整性）、设置（本机、自动同步、通知、Agent、存储与快照保留、加密密码与恢复密钥、异地备份） |
+| 卡片 | `index.html#cards` | UX-01 – UX-05、LEASE-03：授权、进度、完成、失败（常驻）、到达、租约冲突；可切换 macOS 右上 / Windows 右下，并演示一次完整推送；授权卡“查看详情”打开授权详情窗口（改动文件、提交、拒绝 / 稍后 / 同意） |
+| 托盘菜单 | `index.html#tray` | 托盘图标三态与菜单，待确认授权数，暂停后恢复自动同步 |
 
 原型中的数据（设备、项目、快照、二维码等）都是示例，二维码只是示意图形。
 
